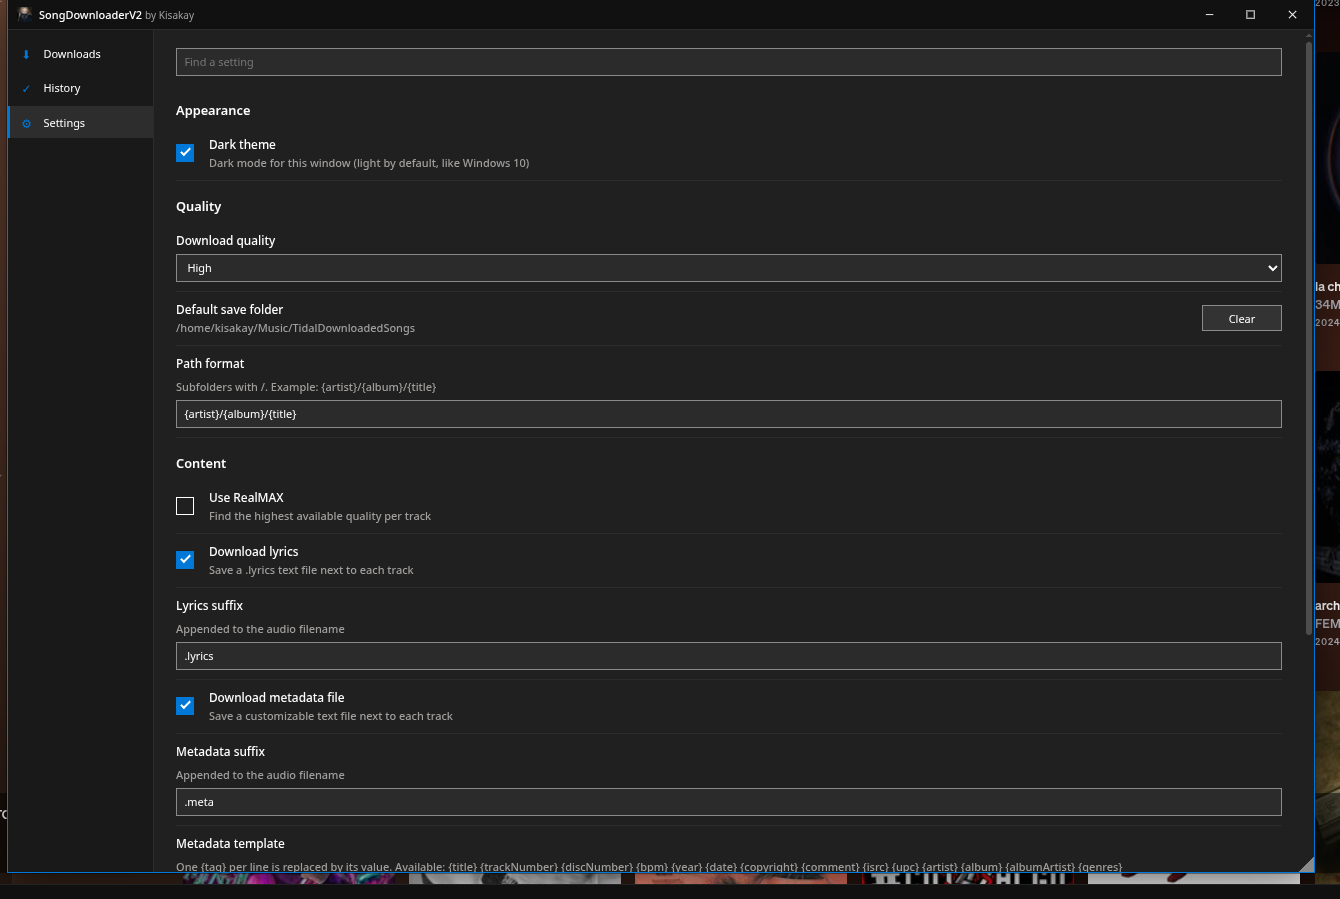
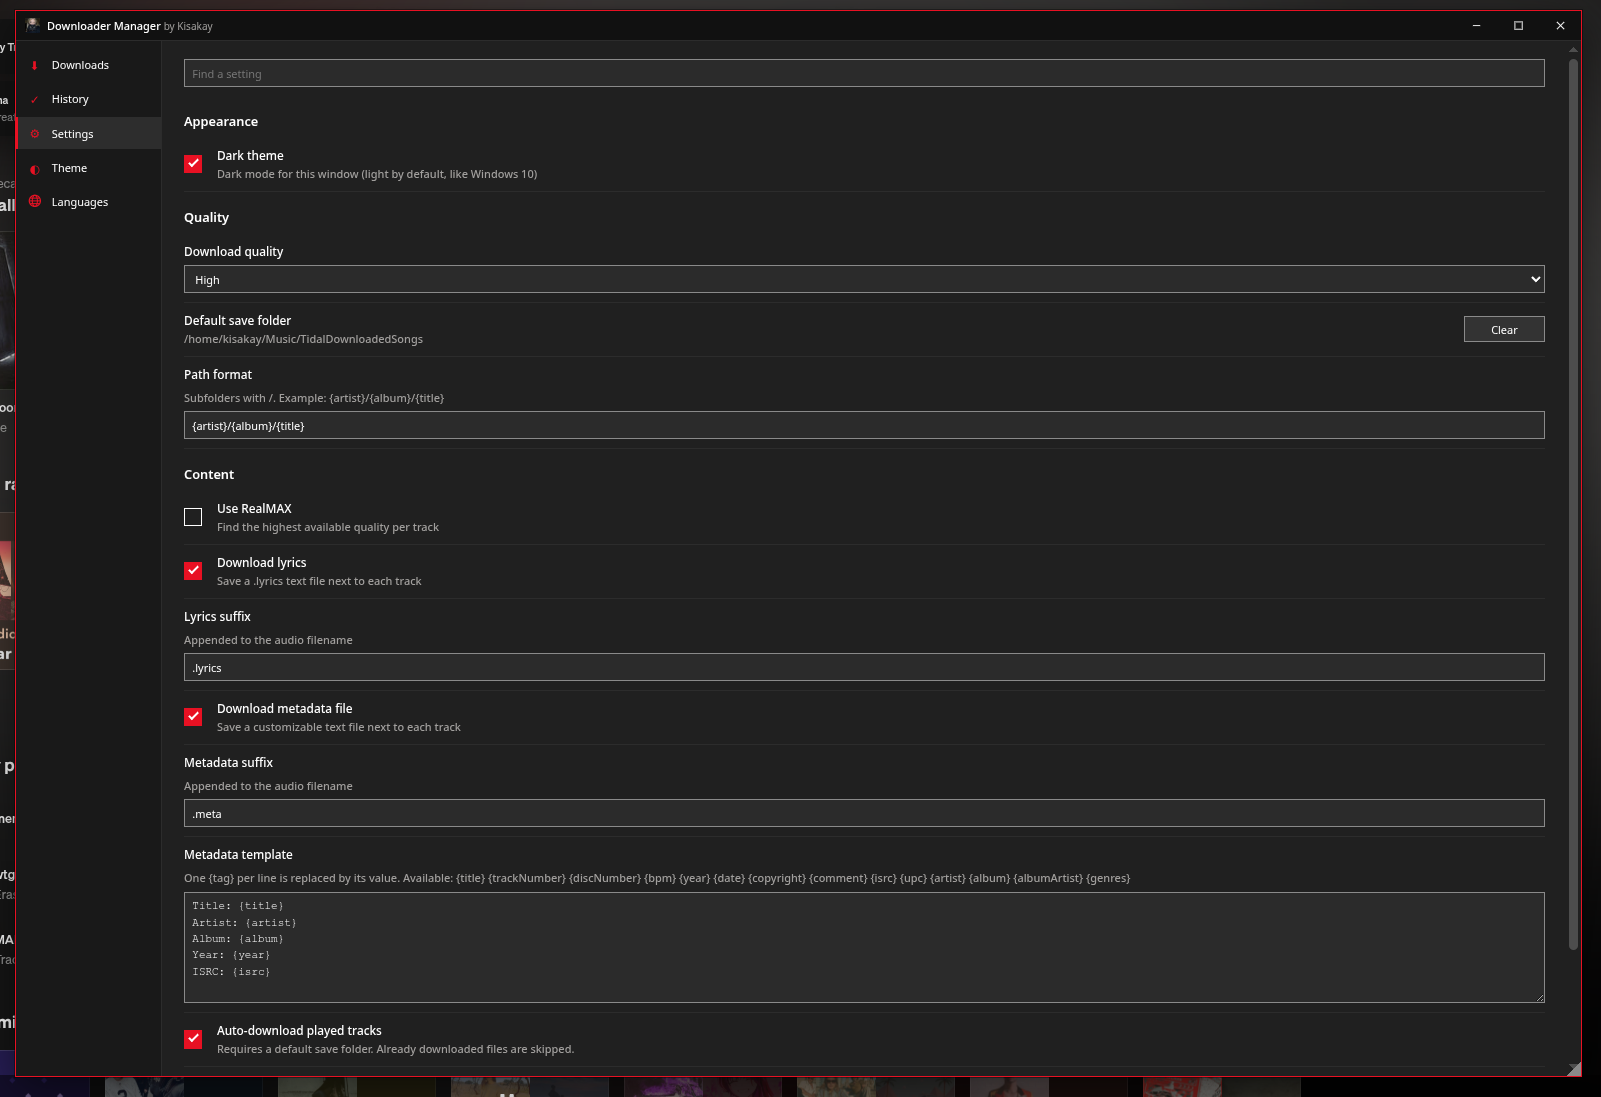
Docs: fresh screenshots (overview/history/settings) and updated features

diff --git a/README.md b/README.md
@@ -16,16 +16,23 @@ Download tracks, albums, playlists and liked **Tracks** as FLAC, with a download
 ## Features
 
 - Liked **Tracks**, albums, playlists and single tracks as FLAC (Max quality, RealMAX lookup)
-- Download queue: reorder by drag & drop, per-item cancel, 5 concurrent workers with lookahead prefetch
+- Download queue: reorder by drag & drop, per-item cancel, 5 concurrent workers with lookahead prefetch, per-track retry with backoff (a single timeout never kills the queue)
 - `.lyrics` text file and customizable `.meta` file next to each track (`{tags}` templates)
-- Auto-download of every played track (playback watcher)
+- Auto-download of every played track (playback watcher with live taskbar status)
 - Persistent download history with auto-skip (on-disk check included)
-- Manager window, Windows 10 style: light/dark theme, draggable, resizable, taskbar app with live status and calendar
-- Context menus: track rows, sidebar, Tracks page header, right-click on sidebar Tracks entry
+- Windows 10 desktop HUD: Downloader Manager window + About window, taskbar apps with accent underline, live status, clock and calendar
+- Win10 MessageBox confirm before closing the manager mid-download (official system icons)
+- 5 interface languages (English, 中文, Русский, 日本語, Español) with auto-detection, switchable live in the **Languages** section
+- Light/dark theme, custom accent color, draggable/resizable/persisted windows
+- Context menus: track rows, sidebar, Tracks page header, right-click on sidebar Tracks entry, right-click on jobs
 
 ## Guide
 
-Downloads queue with live tracks, and the taskbar:
+Full overview: Downloader Manager downloading, About window, and both apps pinned in the taskbar:
+
+![Overview](guide/overview.png)
+
+Downloads queue with live per-track progress:
 
 ![Downloads window](guide/downloads.png)
 
